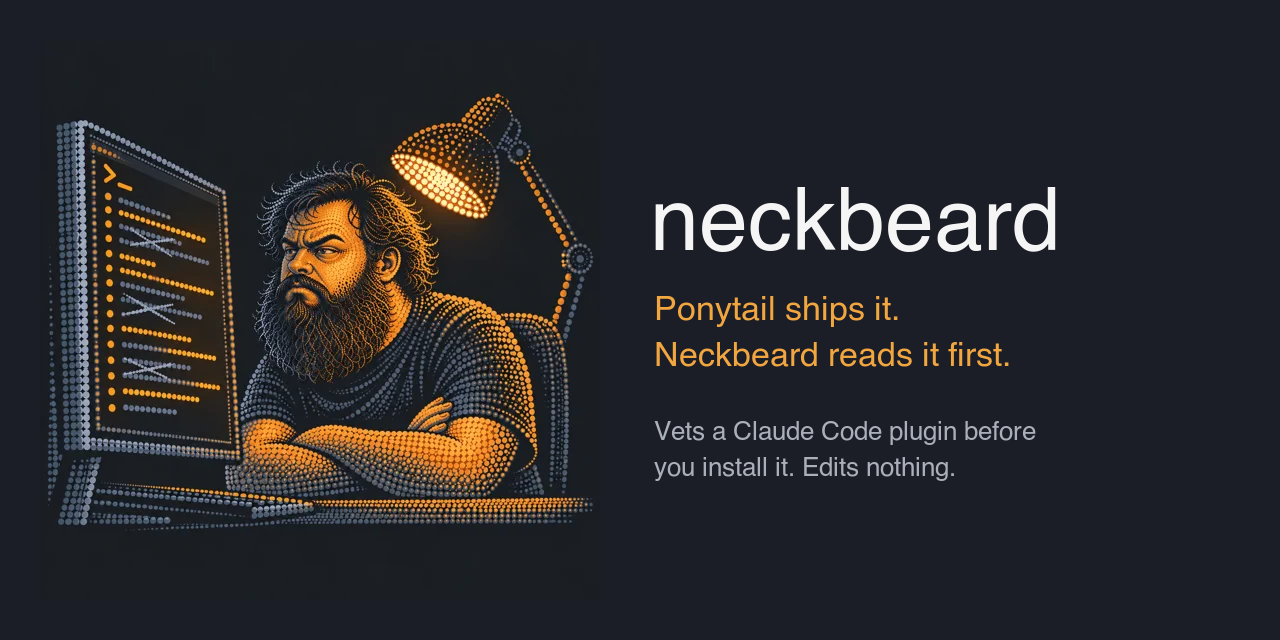
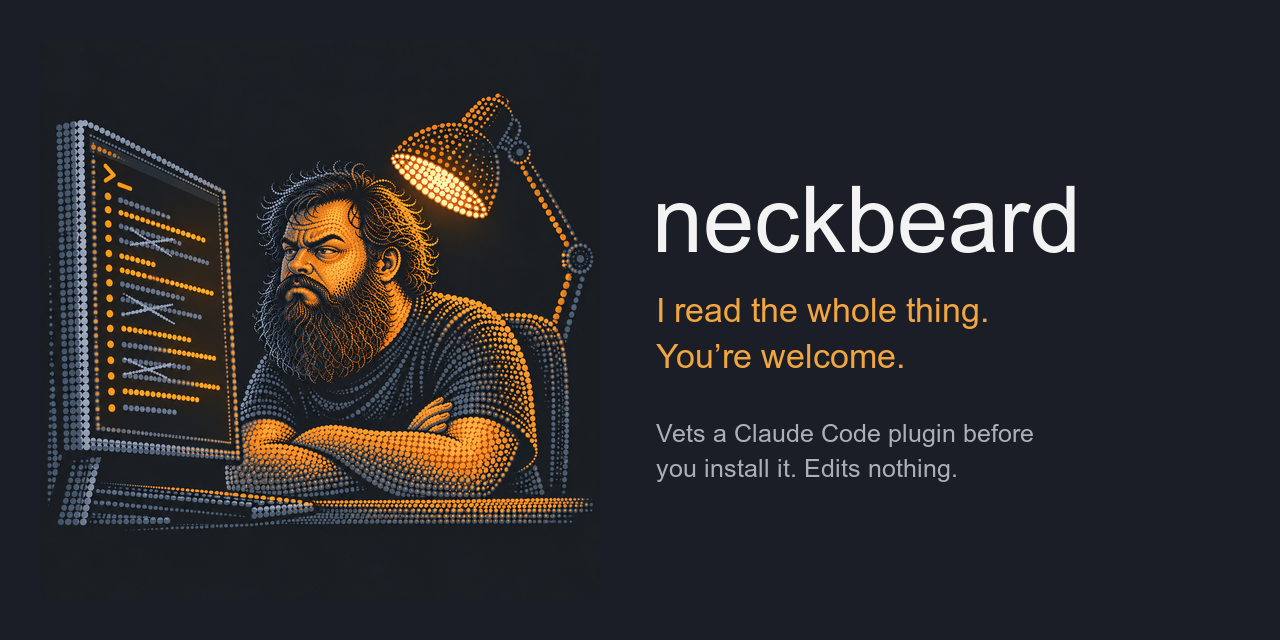
neckbeard 1.12.4: the README says what happened, and a new tagline
The Why section claimed a manual read of ponytail. An LLM made that
comparison and it could not be checked, which is why neckbeard exists.
New tagline "I read the whole thing. You're welcome." in the README and
the social preview image.

diff --git a/README.md b/README.md
@@ -4,7 +4,7 @@
 
 [![self-check](https://github.com/jerrydboonstra/neckbeard/actions/workflows/self-check.yml/badge.svg)](https://github.com/jerrydboonstra/neckbeard/actions/workflows/self-check.yml)
 
-> **Ponytail ships it. Neckbeard reads it first.**
+> **I read the whole thing. You’re welcome.**
 >
 > Reads the plugin. Writes the verdict. Edits nothing.
 
@@ -69,7 +69,7 @@ The full report goes on to list every conflict with the rule it breaks, everythi
 
 ## Why
 
-I nearly installed [ponytail](https://github.com/DietrichGebert/ponytail), the lazy-senior-dev persona plugin, then read it instead: 1,300 tokens injected into every session and every subagent, permanently, with half its rules restating my own config, five contradicting hard stops I rely on (never act on something risky without my approval), and five worth keeping. Those numbers are against my own rules; the report above uses a sample reader, so its counts differ. I copied those into my config as plain text, deleted the plugin, and wrote neckbeard so the next read takes minutes instead of an afternoon. The method is [Yanhua's](https://x.com/yanhua1010/status/2094612609932910828), who did the same audit by hand, against his own config, and published it. See [ATTRIBUTION.md](./ATTRIBUTION.md).
+I nearly installed [ponytail](https://github.com/DietrichGebert/ponytail), the lazy-senior-dev persona plugin. It injects about 1,300 tokens into every session and every subagent, permanently. I asked an LLM to compare its rules with mine, and it told me half of them restated my own config and five contradicted hard stops I rely on (never act on something risky without my approval). I had no good way to tell whether that answer was right. So I copied the rules I wanted into my config as plain text, deleted the plugin, and wrote neckbeard to make that comparison something you can check: every call cites the rule on each side. The method is [Yanhua's](https://x.com/yanhua1010/status/2094612609932910828), who did the same audit by hand, against his own config, and published it. See [ATTRIBUTION.md](./ATTRIBUTION.md).
 
 ## Point it at the next plugin before you install it
 

diff --git a/CHANGELOG.md b/CHANGELOG.md
@@ -4,6 +4,10 @@
 
 What each round cost the tool is written up in `CASE-STUDIES.md`. This file is the short version.
 
+## 1.12.4 (2026-09-25)
+
+- **The README's "Why" now says what happened.** It used to say the author read ponytail himself and found half its rules duplicated and five in conflict. An LLM made that comparison, and there was no good way to check it, which is the reason neckbeard exists. The tagline changes too, and the social preview image matches it.
+
 ## 1.12.3 (2026-09-25)
 
 - **An eighth gallery report: `calm-trader/skills`**, a skill pack with no plugin manifest, vetted against the sample reader. It is a pack the author contributes to, which the report and the gallery say plainly. The report failed the gallery's own count check as first written and was corrected by hand; the gallery lists each correction.
